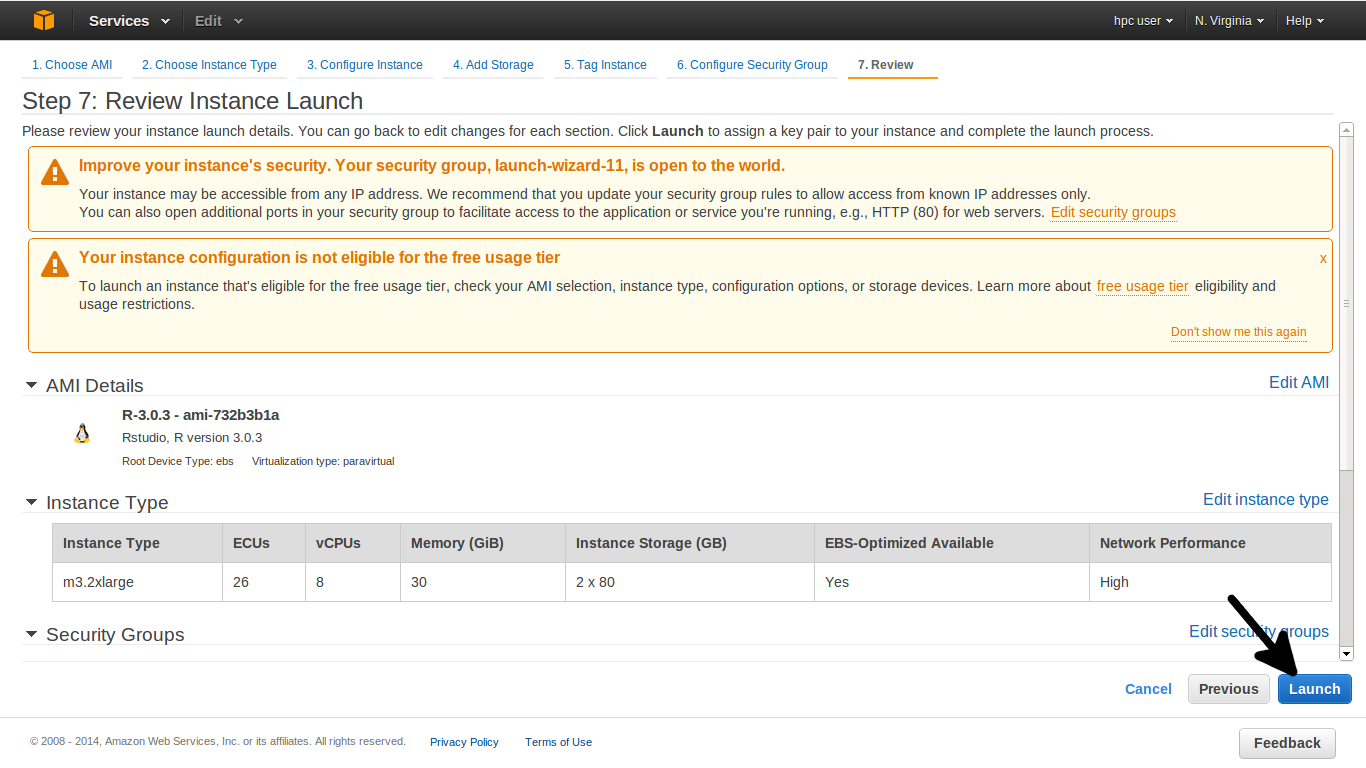
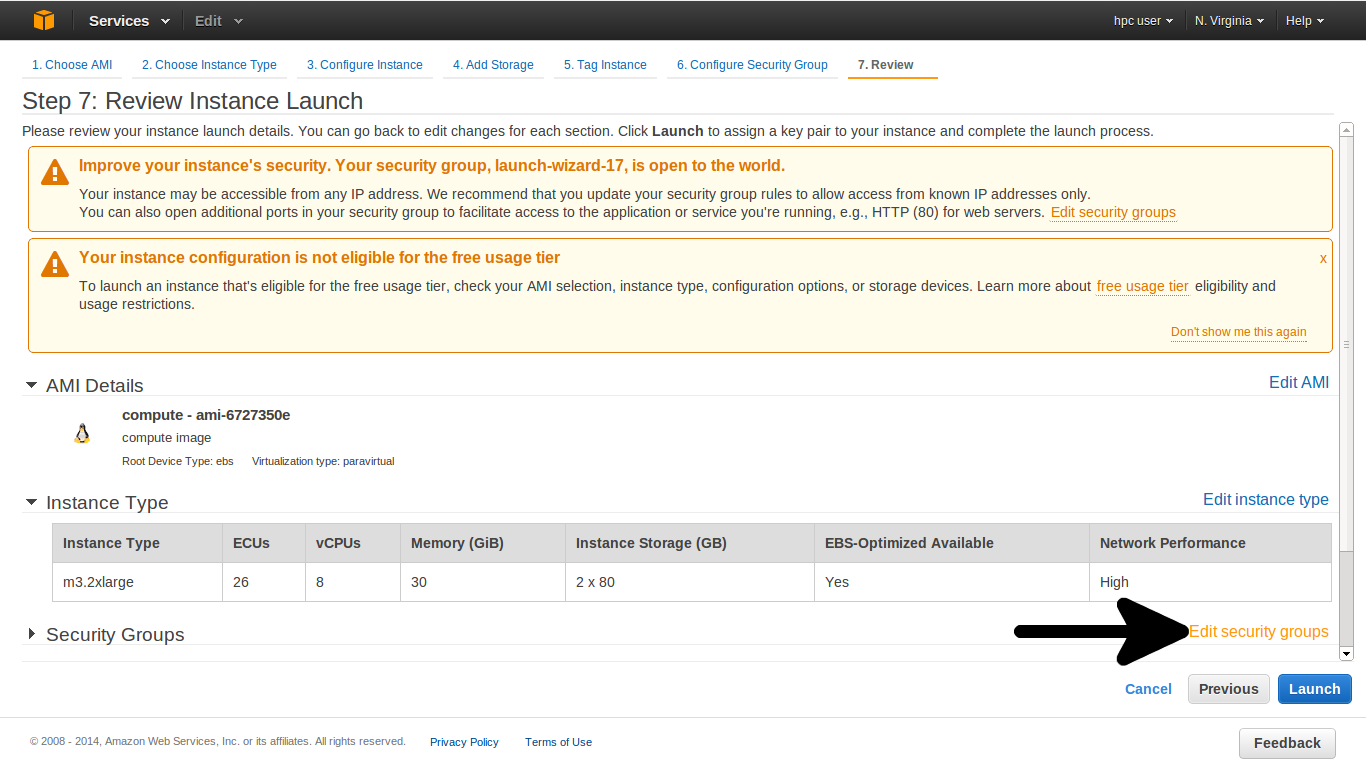
nimbios ec2 tutorial updated

Changed region(s): [[0.7379, 0.7812, 0.9839, 0.875], [0.0922, 0.5312, 0.2152, 0.5938], [0.9839, 0.625, 1.0, 0.7188]]

diff --git a/NIMBioS/ec2_tutorial/howto.html b/NIMBioS/ec2_tutorial/howto.html
@@ -36,7 +36,7 @@ img {width:80%;}
 	<img src="6.png" alt="">
 </li>
 <li>
-	<p>Enter the AMI ID: ami-6727350e. Select the AMI and then click "Launch".</p>
+	<p>Enter the AMI ID which we have provided to you (<em>ami-6727350e</em>) into the search area. Select the AMI and then click "Launch".</p>
 	<img src="7.png" alt="">
 </li>
 <li>
@@ -48,8 +48,24 @@ img {width:80%;}
 	<img src="9.png" alt="">
 </li>
 <li>
-	<p>Select "Launch" in the lower right hand corner.</p>
+	<p>Select "Edit security groups" in the lower right hand corner.</p>
 	<img src="10.png" alt="">
+</li>
+<li>
+	<p>Click "Add Rule".</p>
+	<img src="10-1.png" alt="">
+</li>
+<li>
+	<p>Select "HTTP" from the "Type" drop down menu.</p>
+	<img src="10-2.png" alt="">
+</li>
+<li>
+	<p>Click "Review and Launch".</p>
+	<img src="10-3.png" alt="">
+</li>
+<li>
+	<p>Now click "Launch".</p>
+	<img src="10-4.png" alt="">
 </li>
 <li>
 	<p>For users who only wish to use Rstudio, you will not need to worry about setting up an RSA key pair during this step. 
@@ -63,13 +79,7 @@ img {width:80%;}
 </li>
 <li>
 	<p>Select the running instance which we have created. In the bottom portion of the screen, additional details are displayed.
-	<br/>Copy the "Public DNS" field. We will need this in the next step to access the Rstudio web interface.
-	<br>
-	From our instances page, we select the running instance.  In the description box in
-	the lower portion of the screen, locate "Security groups", click the first one.
-	Right click the security group, select "Edit inboud rules".  Select "Add Rule", and
-	from the dropdown select "HTTP" and then click save.
-	</p>
+	<br/>Copy the "Public DNS" field. We will need this in the next step to access the Rstudio web interface.</p>
 	<img src="13.png" alt="">
 </li>
 <li>
